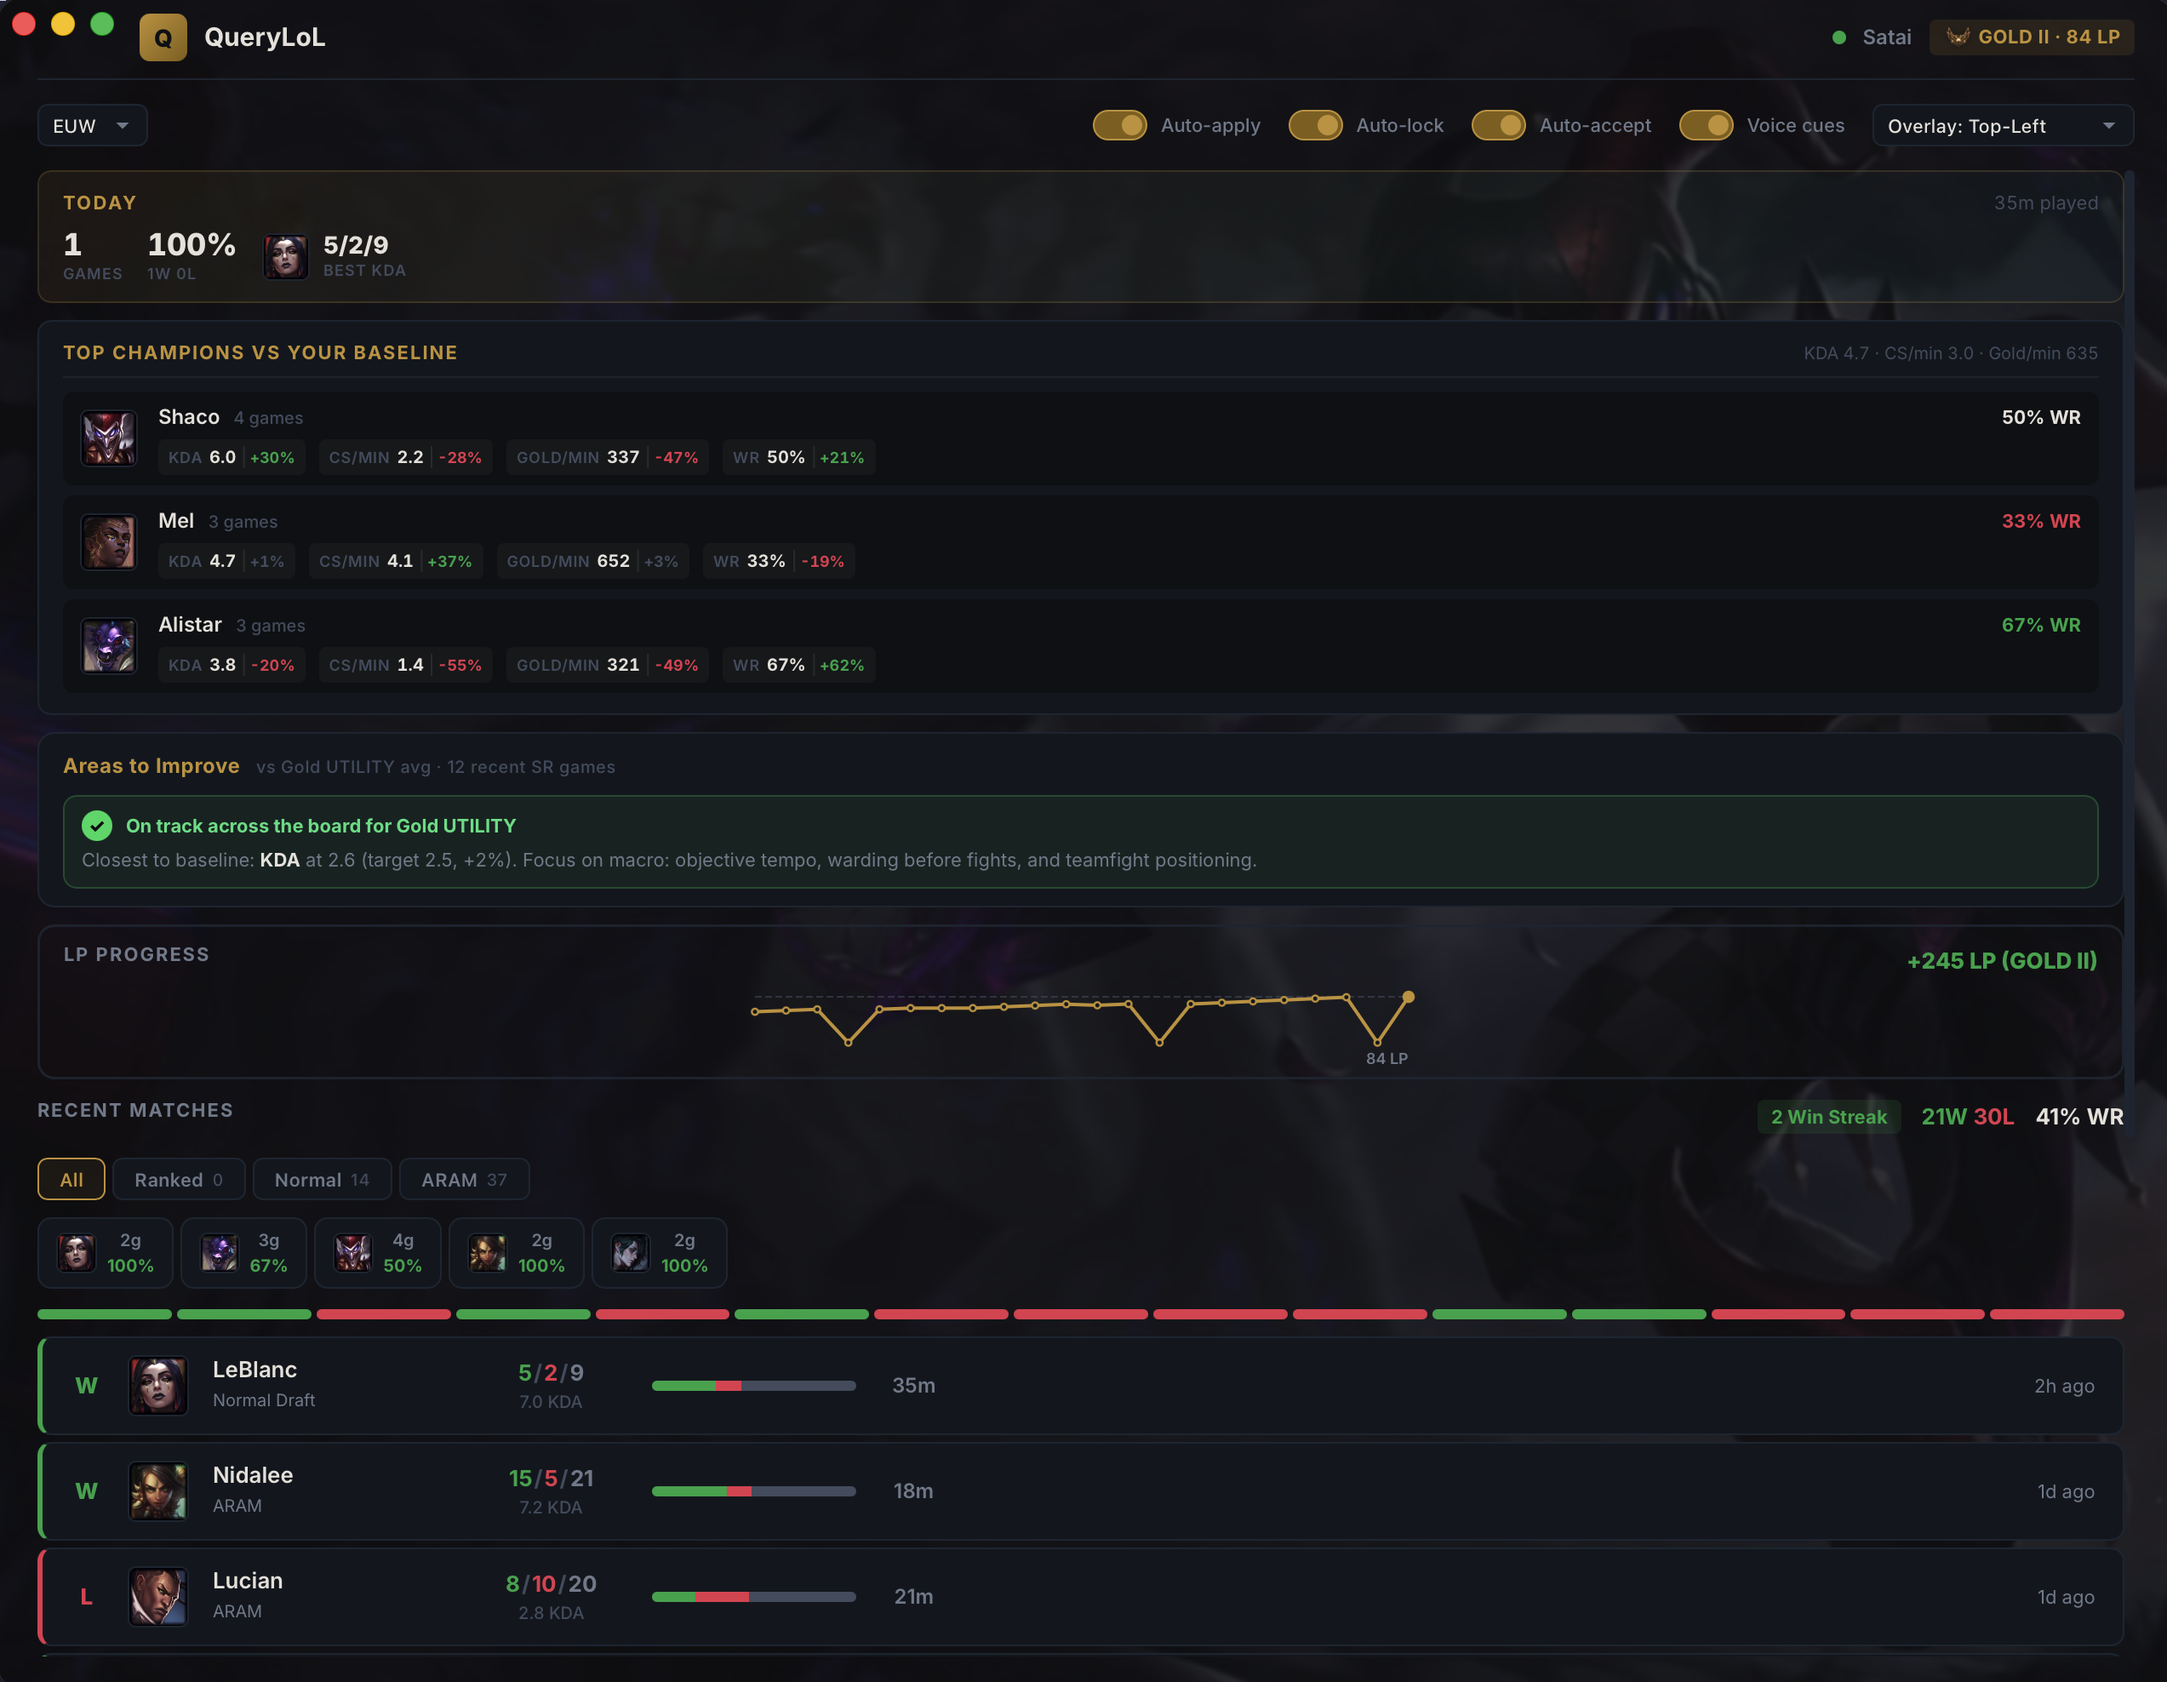
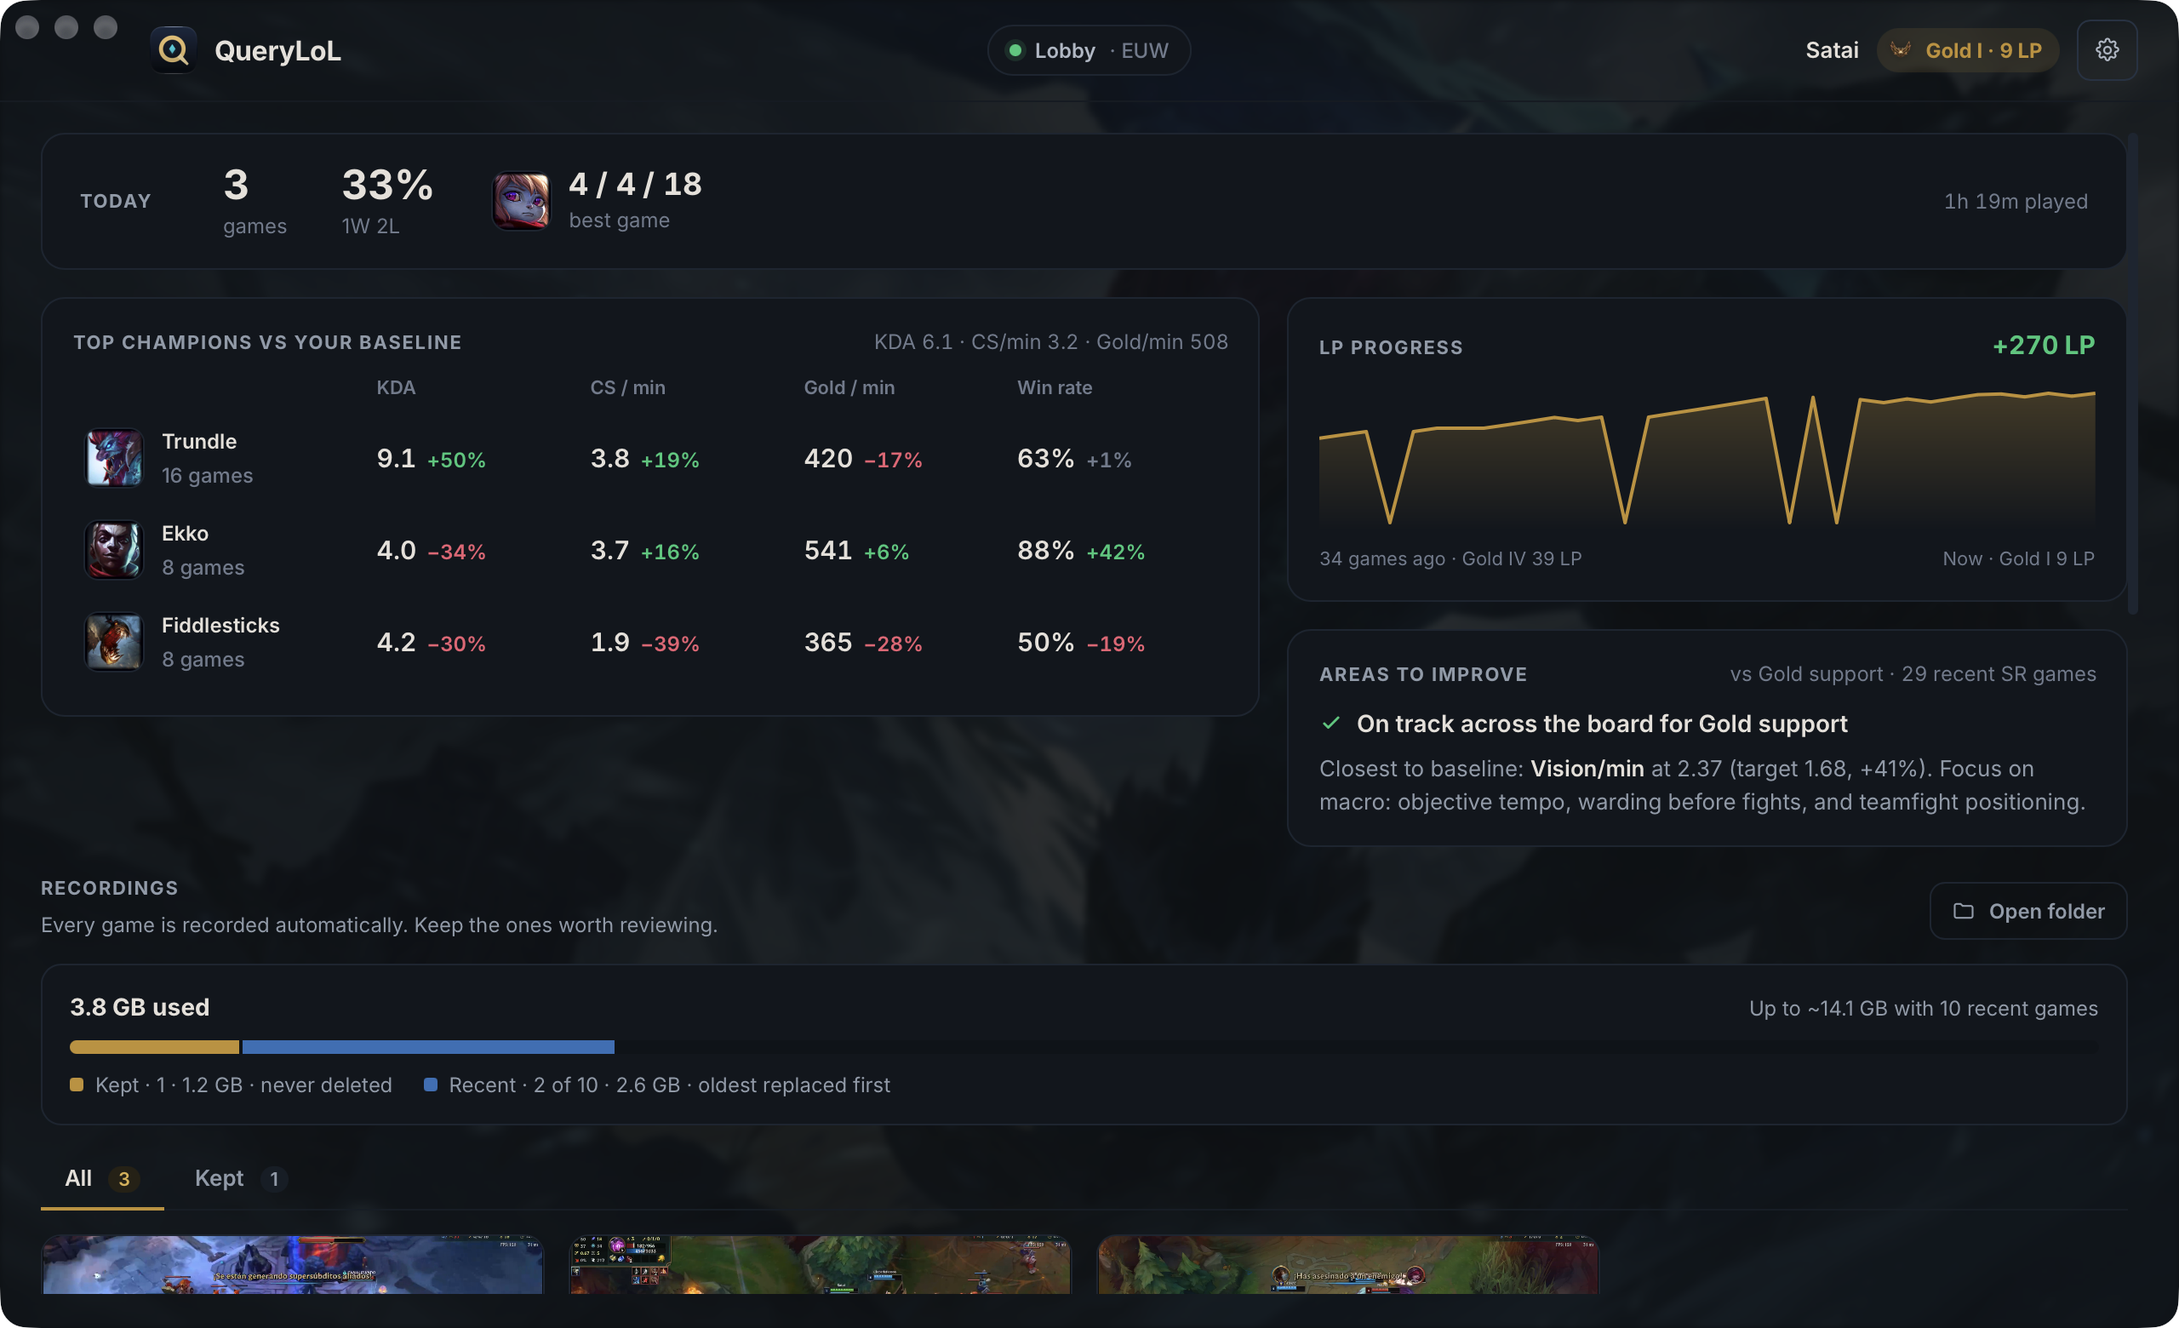
docs: new screenshots for home, post-game and the recording player
Claude-Session: https://claude.ai/code/session_01VJs5VUzQzPFcsQczXx2vZw

diff --git a/docs/index.html b/docs/index.html
@@ -228,7 +228,7 @@
     <section class="spotlight reverse">
       <div class="spot-media reveal">
         <div class="frame stack">
-          <img src="screenshots/post-game.png" alt="Post-game analysis with role-adjusted performance breakdown" loading="lazy" />
+          <img src="screenshots/post-game.png" alt="Post-game scoreboard for both teams with the best in each team marked in gold" loading="lazy" />
           <img class="stack-2" src="screenshots/home-dashboard.png" alt="Home dashboard with role-aware improvement panel" loading="lazy" />
         </div>
       </div>

diff --git a/README.md b/README.md
@@ -26,9 +26,13 @@ Real-time recommended build, win probability, gold diff, and a full scoreboard w
 ![Live game scoreboard and recommended build](docs/screenshots/live-game.png)
 
 ### Post-Game Analysis
-Full match scoreboard for both teams — damage, KP, CS, vision and gold per player — plus a role-adjusted performance breakdown (here vs Gold UTILITY) across KDA, CS/min, gold/min, damage share, vision/min and kill participation.
+Full match scoreboard for both teams — damage, KP, CS, vision and gold per player, with the best in each team marked in gold, plus MVP and multikill badges.
 
-![Post-game match summary with role-adjusted performance breakdown](docs/screenshots/post-game.png)
+![Post-game scoreboard for both teams](docs/screenshots/post-game.png)
+
+Below it: the gold-advantage curve with the win probability and every kill and death, what your damage ran into (here 87% physical into 103 average armor, half of it absorbed), and a role-adjusted performance breakdown (vs Gold UTILITY) across KDA, CS/min, gold/min, vision/min, damage share and kill participation.
+
+![Gold advantage, damage profile and role-adjusted performance](docs/screenshots/post-game-analysis.png)
 
 ### Game Recording & Review
 Every game recorded in the background. The review player puts your kills, deaths, assists and objectives on a timeline over the gold-lead curve, so one click takes you 8 seconds before any of them.
@@ -36,7 +40,7 @@ Every game recorded in the background. The review player puts your kills, deaths
 ![Recording review player with key moments over the gold-lead curve](docs/screenshots/recording-player.png)
 
 ### Home Dashboard
-Today's recap, your top champions vs your own baseline, role-aware areas to improve (benchmarked against your rank and detected position), LP progress, and recent match history.
+Today's recap, your top champions vs your own baseline, LP progress, role-aware areas to improve (benchmarked against your rank and detected position), your recordings library and recent match history.
 
 ![Home dashboard with role-aware improvement panel and LP progress](docs/screenshots/home-dashboard.png)
 
